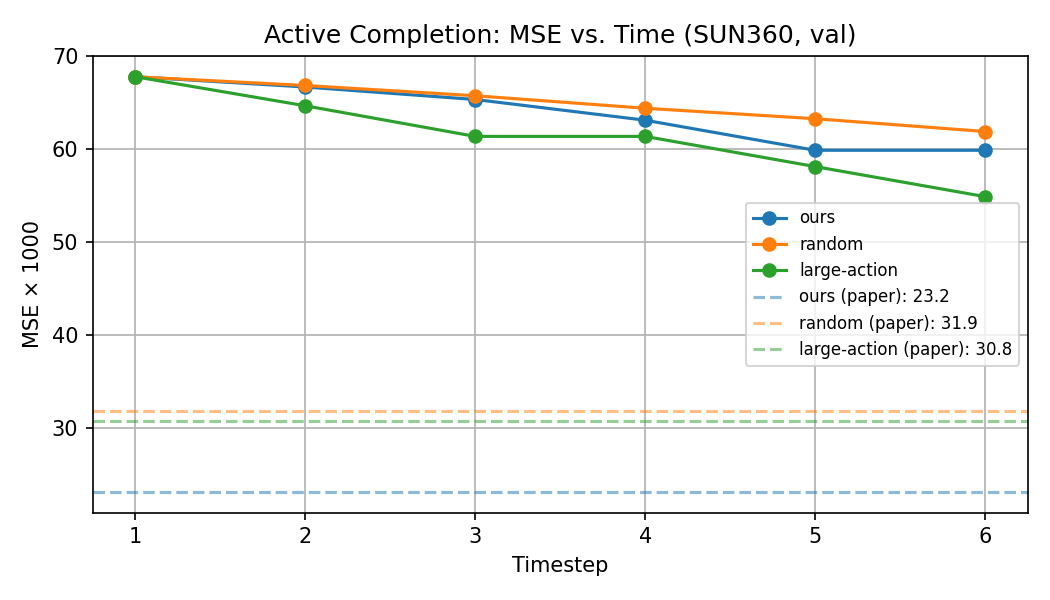
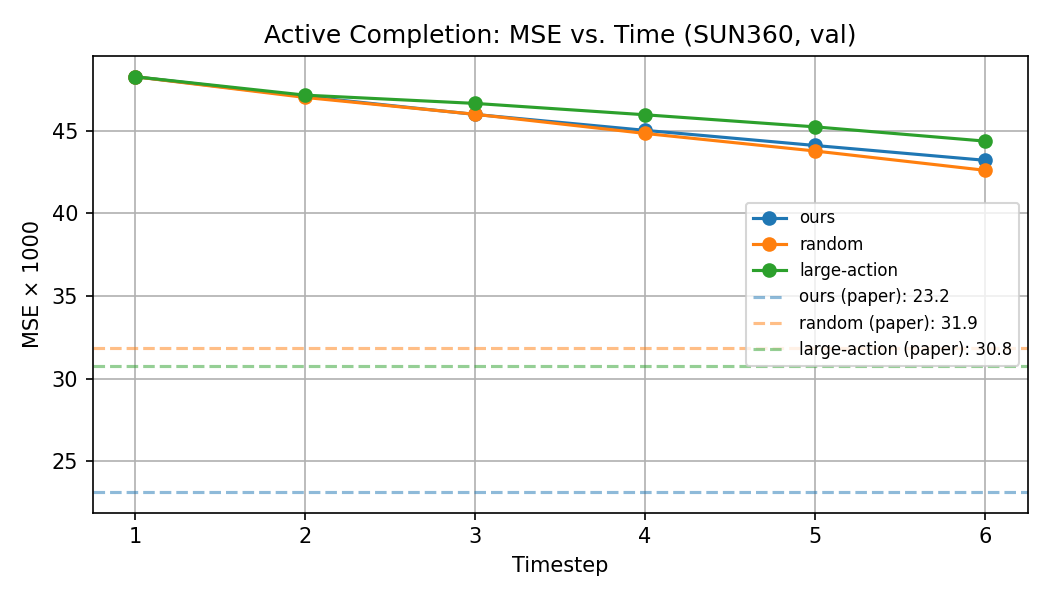
Align 5-elev SUN360 setup with paper §3.3/§4.1
- prepare_sun360.py: replace tile-resize with py360convert.e2p perspective
  projection — 5 elevations (-90/-45/0/+45/+90°) × 8 azimuths, 45° FOV.
  Adds py360convert as a dep.
- train.py: phase 2 now unfreezes the LSTM (aggregator) alongside actor,
  matching the paper. Adds entropy bonus α=0.01 to REINFORCE loss to
  prevent flat-logit collapse seen in prior runs (mean entropy was at
  log(14), logit std ≈ 0). Lowers baseline lr 150× → 10× to keep
  advantage from collapsing to zero. Plumbs entropies + logits through
  run_episode/compute_losses; logs actor/entropy + actor/logit_std to
  wandb each batch.
- utils/rewards.py: compute_reinforce_loss now accepts entropies and
  entropy_coef for the bonus term.
- train_sun360_only.sh: points at combined SUN360+indoor360 5-elev data
  (2293 panos, 4.4× more than SUN360-only); run name updated.

diff --git a/train.py b/train.py
@@ -85,6 +85,8 @@ def run_episode(
 
     recon_list = []
     log_probs = []
+    entropies = []      # per-step policy entropy (B,) — for entropy bonus + diagnostics
+    logits_list = []    # per-step logits (B, K) — for diagnostics (logit std)
 
     # Relative position tracking (from start)
     rel_elev = torch.zeros(B, device=device)
@@ -136,10 +138,12 @@ def run_episode(
                                    dtype=torch.float32, device=device)
             abs_elev_norm = (elev_cur.float() / max(n_elev - 1, 1)).unsqueeze(1).to(device)  # (B, 1)
             logits = actor(a_t, rel_pos, time_frac, abs_elev_norm)  # (B, 14)
-            action, log_prob, _ = actor.get_action(
+            action, log_prob, dist = actor.get_action(
                 logits, deterministic=deterministic
             )
             log_probs.append(log_prob)
+            entropies.append(dist.entropy())     # (B,)
+            logits_list.append(logits.detach())  # (B, K)
 
             # Step position (using first element's action — shared trajectory)
             act_idx = action[0].item()
@@ -158,35 +162,38 @@ def run_episode(
             elev_cur = torch.full((B,), new_e, dtype=torch.long, device=device)
             azim_cur = torch.full((B,), new_a, dtype=torch.long, device=device)
 
-    return recon_list, log_probs, delta_0
+    return recon_list, log_probs, delta_0, entropies, logits_list
 
 
 # ---------------------------------------------------------------------------
 # Loss computation
 # ---------------------------------------------------------------------------
 
-def compute_losses(recon_list, target, log_probs, baseline_value):
+def compute_losses(recon_list, target, log_probs, baseline_value,
+                   entropies=None, entropy_coef: float = 0.0):
     """
     recon_list:     list of T tensors (B, N_views, C, H, W) — already shifted + pasted
     target:         (B, N_views, C, H, W)  — mean-subtracted
     log_probs:      list of T-1 (B,) tensors
     baseline_value: scalar tensor from LearnedBaseline() (for advantage computation)
+    entropies:      optional list of T-1 (B,) tensors; needed for entropy bonus
+    entropy_coef:   α multiplier for -α·mean(H) added to policy_loss
 
     Returns:
         recon_loss:  scalar tensor — sum of MSE over all T steps (for monitoring)
-        policy_loss: scalar tensor — REINFORCE loss (for actor optimizer)
+        policy_loss: scalar tensor — REINFORCE loss (+ optional entropy bonus)
         reward:      (B,) tensor  — per-sample -MSE at final step (for baseline training)
     """
-    # Reconstruction loss: sum over all timesteps (scalar, for monitoring only in phase 2)
     recon_losses = [F.mse_loss(r, target) for r in recon_list]
     recon_loss = sum(recon_losses)
 
-    # Per-sample reward: -(mean pixel MSE at final step) — shape (B,)
     final_diff = (recon_list[-1].detach() - target.detach())
     reward = -final_diff.pow(2).mean(dim=[1, 2, 3, 4])  # (B,)
 
-    policy_loss = compute_reinforce_loss(log_probs, reward, baseline_value)
-
+    policy_loss = compute_reinforce_loss(
+        log_probs, reward, baseline_value,
+        entropies=entropies, entropy_coef=entropy_coef,
+    )
     return recon_loss, policy_loss, reward
 
 
@@ -208,7 +215,7 @@ def validate(val_loader, encoder, loc_sensor, combine, memory, completion,
     with torch.no_grad():
         for batch in val_loader:
             batch = batch.to(device)
-            recon_list, _, _ = run_episode(
+            recon_list, _, _, _, _ = run_episode(
                 batch, encoder, loc_sensor, combine, memory, completion,
                 actor=actor, config=config, device=device, T=config.T,
                 deterministic=True,
@@ -237,7 +244,7 @@ def pretrain(loader, encoder, loc_sensor, combine, memory, completion,
         total_loss = 0.0
         for batch in loader:
             batch = batch.to(device)  # (B, 40, 3, 32, 32)
-            recon_list, _, _ = run_episode(
+            recon_list, _, _, _, _ = run_episode(
                 batch, encoder, loc_sensor, combine, memory, completion,
                 actor=None,  # not used when T=1
                 config=config, device=device, T=1,
@@ -270,28 +277,47 @@ def train_full(loader, encoder, loc_sensor, combine, memory, completion, actor,
     Matches original: finetune_lrMult=0 freezes pretrained modules; only Actor
     and the learned baseline scalar are updated. Baseline trained at 150× actor lr.
     """
-    # Freeze all pretrained modules — only actor (and baseline) update in phase 2
-    for module in [encoder, loc_sensor, combine, memory, completion]:
+    # Phase 2 freezing — matches paper §3.3 ("train aggregate and act ... while other
+    # modules are frozen") and origin example.sh job 2 (finetune_lrMult=0,
+    # finetuneDecoderFlag=1 → decoder_lr_mult=0; finetuneRNNFlag/ActorFlag default
+    # false → rnn_lr_mult=action_lr_mult=1). So: freeze the sensing apparatus
+    # (encoder/location/combine) AND the decoder (completion); the aggregator (memory
+    # LSTM) and the actor both TRAIN.
+    for module in [encoder, loc_sensor, combine, completion]:
         for p in module.parameters():
             p.requires_grad = False
+    for p in memory.parameters():
+        p.requires_grad = True
 
-    # Actor-only optimizer with weight decay (matching original weightDecay=0.005)
+    # Optimizer over aggregator (memory) + actor, both at base lr (weight_decay=0.005).
+    # memory receives BOTH reconstruction-loss grads (through the frozen decoder) and
+    # REINFORCE grads (through h_t → action log-probs); actor receives REINFORCE grads.
     actor_optimizer = torch.optim.Adam(
-        actor.parameters(), lr=config.lr, weight_decay=0.005
+        list(actor.parameters()) + list(memory.parameters()),
+        lr=config.lr, weight_decay=0.005,
     )
     scheduler = torch.optim.lr_scheduler.ReduceLROnPlateau(
         actor_optimizer, mode="min", factor=0.5,
         patience=200, threshold=0.0002, min_lr=1e-6,
     )
 
-    # Learned scalar baseline (matches original nn.Add(1), trained at 150× actor lr)
+    # Learned scalar baseline. Original Lua used 150× actor lr, but with the tiny
+    # advantage signal in this task (advantage ≈ 1e-3) that lr collapses the baseline
+    # onto the reward EMA within a handful of steps → advantage ≈ 0 → no learning.
+    # Drop to 10× so baseline tracks more slowly and leaves a usable advantage.
     learned_baseline = LearnedBaseline().to(device)
     baseline_optimizer = torch.optim.Adam(
-        learned_baseline.parameters(), lr=config.lr * 150
+        learned_baseline.parameters(), lr=config.lr * 10
     )
 
+    # Entropy bonus α: paper has none, but flat-logit collapse (entropy = log(K)
+    # with argmax always picking the same action) was empirically observed.
+    # α=0.01 is small enough not to dominate the PG loss but large enough to keep
+    # logits from collapsing to zero variance.
+    entropy_coef = 0.01
+
     encoder.eval(); loc_sensor.eval(); combine.eval()
-    memory.eval(); completion.eval(); actor.train()
+    completion.eval(); memory.train(); actor.train()
 
     # Cache one fixed val sample for visualization (grabbed once, reused every epoch)
     _vis_batch = None
@@ -309,13 +335,14 @@ def train_full(loader, encoder, loc_sensor, combine, memory, completion, actor,
             batch = batch.to(device)
             B = batch.shape[0]
 
-            recon_list, log_probs, _ = run_episode(
+            recon_list, log_probs, _, entropies, logits_list = run_episode(
                 batch, encoder, loc_sensor, combine, memory, completion,
                 actor=actor, config=config, device=device, T=config.T,
             )
 
             recon_loss, policy_loss, reward = compute_losses(
-                recon_list, batch, log_probs, learned_baseline()
+                recon_list, batch, log_probs, learned_baseline(),
+                entropies=entropies, entropy_coef=entropy_coef,
             )
 
             # Update baseline (MSE against per-sample reward)
@@ -326,10 +353,20 @@ def train_full(loader, encoder, loc_sensor, combine, memory, completion, actor,
             baseline_loss.backward()
             baseline_optimizer.step()
 
-            # Update actor (REINFORCE)
+            # Update aggregator (memory) + actor.
+            # recon_loss (Eq 2, summed over all T steps) backprops through the frozen
+            # decoder into the RNN — teaching it to accumulate views into a better
+            # internal model. policy_loss (REINFORCE) trains the actor and also nudges
+            # the RNN via the action log-probs. Both terms hit the same optimizer.
             actor_optimizer.zero_grad()
-            policy_loss.backward()
-            nn.utils.clip_grad_norm_(actor.parameters(), config.max_grad_norm)
+            total_loss = recon_loss + config.lambda_policy * policy_loss
+            total_loss.backward()
+            # clip_grad_norm_ returns the total (pre-clip) grad norm — log it to check
+            # whether max_grad_norm is biting the (larger) recon gradient into memory.
+            grad_norm = nn.utils.clip_grad_norm_(
+                list(actor.parameters()) + list(memory.parameters()),
+                config.max_grad_norm,
+            )
             actor_optimizer.step()
 
             epoch_policy += policy_loss.item()
@@ -339,11 +376,18 @@ def train_full(loader, encoder, loc_sensor, combine, memory, completion, actor,
             global_step += 1
 
             if global_step % config.log_every == 0:
+                with torch.no_grad():
+                    mean_entropy = torch.stack(entropies).mean().item() if entropies else 0.0
+                    logits_stack = torch.stack(logits_list, dim=0)  # (T-1, B, K)
+                    logit_std = logits_stack.std(dim=-1).mean().item()
                 log_metrics({
                     "train/policy_loss": policy_loss.item(),
                     "train/reward":      reward.mean().item(),
                     "train/recon_loss":  recon_loss.item(),
                     "train/baseline":    learned_baseline.value.item(),
+                    "train/grad_norm":   float(grad_norm),
+                    "actor/entropy":     mean_entropy,
+                    "actor/logit_std":   logit_std,
                 }, step=global_step, run=run)
 
         # Epoch summary + val
@@ -359,9 +403,10 @@ def train_full(loader, encoder, loc_sensor, combine, memory, completion, actor,
                     val_loader, encoder, loc_sensor, combine, memory,
                     completion, actor, config, device,
                 )
-                # validate() restores .train() on all modules; re-freeze frozen ones
+                # validate() restores .train() on all modules; re-set phase-2 modes
+                # (memory stays trainable; sensing apparatus + decoder stay frozen)
                 encoder.eval(); loc_sensor.eval(); combine.eval()
-                memory.eval(); completion.eval()
+                completion.eval(); memory.train()
                 metrics["val/recon_loss"] = val_recon
                 metrics["val/reward"]     = val_reward
                 scheduler.step(val_recon)
@@ -370,7 +415,7 @@ def train_full(loader, encoder, loc_sensor, combine, memory, completion, actor,
                 if _vis_batch is not None:
                     actor.eval()
                     with torch.no_grad():
-                        vis_recon, _, _ = run_episode(
+                        vis_recon, _, _, _, _ = run_episode(
                             _vis_batch, encoder, loc_sensor, combine, memory,
                             completion, actor=actor, config=config, device=device,
                             T=config.T, deterministic=True,

diff --git a/data/prepare_sun360.py b/data/prepare_sun360.py
@@ -29,11 +29,11 @@ Split HDF5 files matching the torchfeed schema:
   pixels_trn_torchfeed.h5 / pixels_val_torchfeed.h5 / pixels_tst_torchfeed.h5
 
 Each file contains:
-  target_viewgrid        uint8  (N, 3, 256, 128)  — Torch7 (W before H) layout
-  gridshape              float64 [4, 8]
+  target_viewgrid        uint8  (N, 3, 256, 160)  — Torch7 (W before H) layout
+  gridshape              float64 [5, 8]
   view_snapshape         float64 [32, 32]
-  pano_dims              float64 [128, 256]
-  average_target_viewgrid uint8  (3, 256, 128)
+  pano_dims              float64 [160, 256]
+  average_target_viewgrid uint8  (3, 256, 160)
   labs                   float64 (N, 1)
   shuffle_ord            float64 (N_total,)
 
@@ -65,15 +65,24 @@ from typing import Dict, List, Optional, Tuple
 
 import h5py
 import numpy as np
+import py360convert
 from PIL import Image
 
 # Grid parameters matching the torchfeed format
-N_ELEV = 4
+N_ELEV = 5
 N_AZIM = 8
 VIEW_H = 32
 VIEW_W = 32
-PANO_H = N_ELEV * VIEW_H   # 128
+PANO_H = N_ELEV * VIEW_H   # 160 (5 elevations × 32 px) — aligned with paper Sec 4.1
 PANO_W = N_AZIM * VIEW_W   # 256
+
+# Paper Sec 4.1: 5 elevations evenly spaced over [-90°, +90°], 8 azimuths over [0°, 360°),
+# 45° horizontal/vertical FOV per perspective view.
+ELEV_DEGS = np.linspace(-90.0, 90.0, N_ELEV).tolist()     # [-90, -45, 0, 45, 90]
+AZIM_DEGS = (np.arange(N_AZIM) * (360.0 / N_AZIM)).tolist()  # [0, 45, 90, ..., 315]
+FOV_DEG = 45.0
+PANO_LOAD_H = 512           # equirect resolution to project from (Source: 1024×512 inputs)
+PANO_LOAD_W = 1024
 
 # Train/val/test split fractions
 SPLIT_FRAC = {"train": 0.73, "val": 0.13, "test": 0.14}
@@ -122,12 +131,13 @@ def find_panoramas(pano_dir: str) -> List[Tuple[str, int]]:
 
 def process_panorama(img_path: str) -> Optional[np.ndarray]:
     """
-    Load and resize a panorama to (PANO_H, PANO_W, 3).
-    Returns uint8 array or None on error.
+    Load equirectangular panorama at PANO_LOAD_H×PANO_LOAD_W.
+    Returns uint8 array (H, W, 3) ready for perspective projection, or None on error.
     """
     try:
         img = Image.open(img_path).convert("RGB")
-        img = img.resize((PANO_W, PANO_H), Image.LANCZOS)
+        if img.size != (PANO_LOAD_W, PANO_LOAD_H):
+            img = img.resize((PANO_LOAD_W, PANO_LOAD_H), Image.LANCZOS)
         return np.array(img, dtype=np.uint8)
     except Exception as e:
         print(f"  Warning: skipping {img_path}: {e}")
@@ -136,13 +146,31 @@ def process_panorama(img_path: str) -> Optional[np.ndarray]:
 
 def pano_to_viewgrid_torch7(pano: np.ndarray) -> np.ndarray:
     """
-    Convert (PANO_H, PANO_W, 3) uint8 panorama to Torch7-style viewgrid.
-    Output: (3, PANO_W, PANO_H) uint8 — channels-first, W before H.
+    Extract N_ELEV × N_AZIM perspective views from an equirect panorama and tile
+    them into the Torch7 viewgrid layout (3, PANO_W, PANO_H).
+
+    Paper Sec 4.1: 45° FOV perspective views at evenly spaced elevations
+    (-90, -45, 0, +45, +90°) and azimuths (0, 45, …, 315°).
+
+    Tiling: view (elev_idx, azim_idx) goes to row [elev_idx*VIEW_H:(elev_idx+1)*VIEW_H],
+    col [azim_idx*VIEW_W:(azim_idx+1)*VIEW_W] of a (PANO_H, PANO_W, 3) image.
+    The dataset loader (data/sun360.py) inverts this tiling to recover individual views.
     """
-    # (H, W, C) → (C, H, W)
-    chw = pano.transpose(2, 0, 1)
-    # Torch7 stores (C, W, H) — swap last two dims
-    return chw.transpose(0, 2, 1)   # (C, W, H) = (3, 256, 128)
+    tiled = np.zeros((PANO_H, PANO_W, 3), dtype=np.uint8)
+    for ei, elev_deg in enumerate(ELEV_DEGS):
+        for ai, azim_deg in enumerate(AZIM_DEGS):
+            # py360convert: u=yaw (azim), v=pitch (elev), in_rot_deg=0
+            view = py360convert.e2p(
+                pano,
+                fov_deg=(FOV_DEG, FOV_DEG),
+                u_deg=float(azim_deg),
+                v_deg=float(elev_deg),
+                out_hw=(VIEW_H, VIEW_W),
+            )
+            tiled[ei*VIEW_H:(ei+1)*VIEW_H, ai*VIEW_W:(ai+1)*VIEW_W] = view
+    # (H, W, C) → (C, H, W) → Torch7 (C, W, H)
+    chw = tiled.transpose(2, 0, 1)
+    return chw.transpose(0, 2, 1)   # (C, W, H) = (3, PANO_W, PANO_H)
 
 
 def split_data(pairs: List[Tuple[str, int]],

diff --git a/utils/rewards.py b/utils/rewards.py
@@ -9,7 +9,7 @@ The paper uses:
 
 Matches original VRRegressReward.lua + nn.Add(1) scalar baseline.
 """
-from typing import List
+from typing import List, Optional
 
 import torch
 import torch.nn as nn
@@ -34,33 +34,39 @@ class LearnedBaseline(nn.Module):
 
 def compute_reinforce_loss(log_probs: List[Tensor],
                            reward: Tensor,
-                           baseline: Tensor) -> Tensor:
+                           baseline: Tensor,
+                           entropies: Optional[List[Tensor]] = None,
+                           entropy_coef: float = 0.0) -> Tensor:
     """
-    Compute REINFORCE policy gradient loss.
+    Compute REINFORCE policy gradient loss with optional entropy regularization.
 
-    Uses per-sample reward and a learned scalar baseline for variance reduction.
-    Applies the same reward signal to all timesteps' log probs (non-myopic).
+    policy_loss = -E[sum_t log_pi_t · advantage] - entropy_coef · mean_t H(pi_t)
+
+    Entropy bonus prevents the actor logits from collapsing to a flat distribution
+    (which would still produce a deterministic argmax). When the reward signal
+    across actions is tiny (as it is for tile-resize viewgrids on small datasets),
+    the policy collapses without this regularization.
 
     Args:
-        log_probs: list of (B,) tensors, one per action timestep (T-1 entries)
-        reward:    (B,) per-sample reward R_i = -MSE_final_i  (higher = better)
-        baseline:  scalar tensor from LearnedBaseline() (already detached for advantage)
+        log_probs:    list of (B,) tensors, one per action timestep (T-1 entries)
+        reward:       (B,) per-sample reward R_i = -MSE_final_i  (higher = better)
+        baseline:     scalar tensor from LearnedBaseline() (detached for advantage)
+        entropies:    optional list of (B,) entropies, one per timestep. If provided
+                      and entropy_coef > 0, a -coef·mean(H) term is added.
+        entropy_coef: scalar α (paper uses no entropy bonus; we add it as a stabilizer)
 
     Returns:
-        policy_loss: scalar tensor (to be added to actor optimizer step)
+        policy_loss: scalar tensor
     """
     if not log_probs:
         return torch.tensor(0.0, requires_grad=False)
 
-    # Stack log probs: (T-1, B)
-    stacked = torch.stack(log_probs, dim=0)  # (T-1, B)
-
-    # Sum over timesteps for each batch element: (B,)
-    sum_log_probs = stacked.sum(dim=0)       # (B,)
-
-    # Advantage: detach baseline so no gradient flows into it here
+    stacked = torch.stack(log_probs, dim=0)              # (T-1, B)
+    sum_log_probs = stacked.sum(dim=0)                   # (B,)
     advantage = (reward - baseline.detach().squeeze()).detach()  # (B,)
+    pg_loss = -(sum_log_probs * advantage).mean()
 
-    # Policy gradient loss (negative because we maximize reward)
-    policy_loss = -(sum_log_probs * advantage).mean()
-    return policy_loss
+    if entropies and entropy_coef > 0.0:
+        ent = torch.stack(entropies, dim=0).mean()       # scalar mean over T·B
+        pg_loss = pg_loss - entropy_coef * ent
+    return pg_loss
